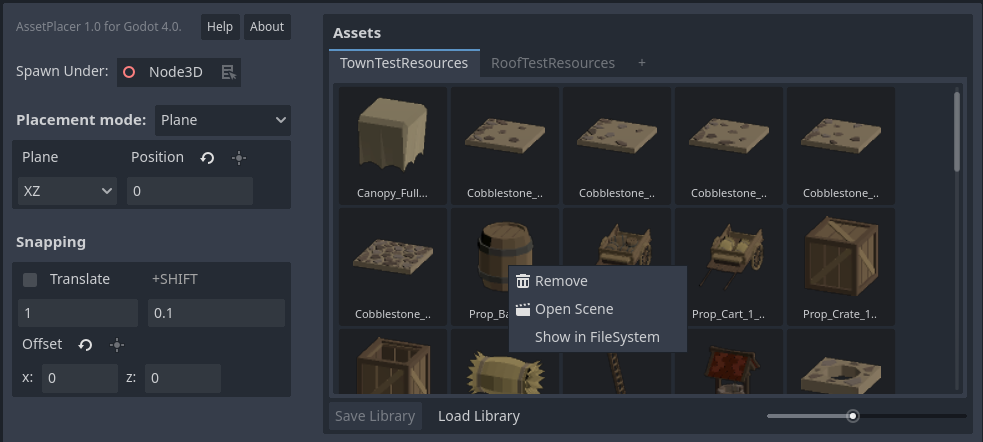
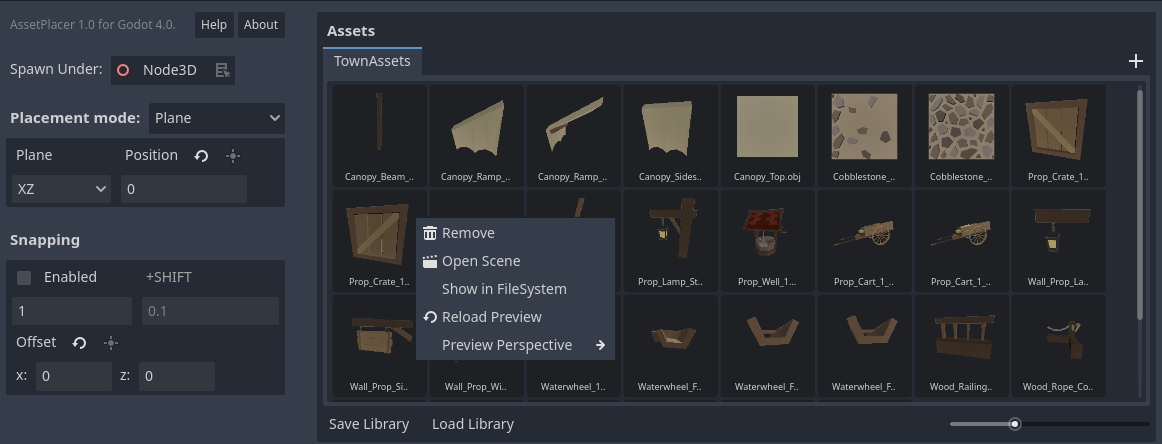
updated information for release

diff --git a/faq.rst b/faq.rst
@@ -1,6 +1,9 @@
 Frequently Asked Questions (FAQ)
 ================================
 
+.. |nbsp| unicode:: 0xA0 
+   :trim:
+
 Why is this not free?
 ------------------------
 
@@ -14,13 +17,14 @@ Considering the time you can save by using it, especially when using modular ass
 The plan is, to keep developing the plugin, by adding new features and maintaining compatibility with major engine versions. 
 As you receive the source code of the plugin directly, you are also free to make any changes as you see fit, if you ever need to change something. 
 Your freedom of use is as unlimited as I can make it, and as much as I would like to give the plugin away for free entirely, I am grateful for everybody who appreciates my work by buying it fairly.
-
+I might release other plugins as Open-Source in the future. Buying this plugin would also support my work in this endeavor.
+In case that you really do not want to pay for a tool, you can check out this `Open Source Alternative <https://github.com/Frontrider/Godot-Scene-Browser>`_ for Godot |nbsp| 3.
 
 I can only find the C# version. Where is GDScript?
 -----------------------------------------------------
 
 At the moment, this plugin is written in C# only. The choice to develop it in C# was made, because of the large amounts of code and the frequent use of abstraction and high-level language features. 
-This is much easer to handle with a powerful language with a powerful external IDE. As you might be aware, C# code can only be run in the Mono version of the Godot engine, which requires .Net or Mono to be installed, which might be annoying for some of you.
+This is much easer to handle with a powerful language with a powerful external IDE. As you might be aware, C# code can only be run in the Mono version of the Godot engine, which requires `.NET <https://dotnet.microsoft.com/en-us/download/dotnet/6.0>`_ to be installed, which might be annoying for some of you.
 I am sorry for this inconvenience. Maybe I will translate the plugin to GDScript eventually, but for now it is the way it is.
 
 
@@ -30,12 +34,17 @@ Is there a way to use this plugin for 2D levels?
 Currently, the plugin only features tools for 3D levels, but I thought about adding tools for 2D as well. Separating the AssetPlacer into an AssetPlacer3D and a AssetPlacer2D (i.e. having two bottom panels) would be an option, that might be implemented in the future.
 
 
-My assets show no preview thumbails. What is wrong?
-------------------------------------------------------
+.. 
+    My assets show no preview thumbails. What is wrong?
+    ------------------------------------------------------
 
-This can happen sometimes, especially when you open a project for the first time on a different computer. If you want the preview for a .tscn file, then open the file and save it, this way the thumbnail is generated.
-If you want to see the thumbnails of some 3D models, you have to reimport them (change them to be imported as a mesh and then back to import as a scene). 
-Unfortunately, this requires restarting the editor at the moment, but if a more efficient alternative for this problem is found, I will try to implement it.
+    This can happen sometimes, especially when you open a project for the first time on a different computer. If you want the preview for a .tscn file, then open the file and save it, this way the thumbnail is generated.
+    If you want to see the thumbnails of some 3D models, you have to reimport them (change them to be imported as a mesh and then back to import as a scene). 
+    Unfortunately, this requires restarting the editor at the moment, but if a more efficient alternative for this problem is found, I will try to implement it.
+
+Godot 3.x?
+-------------
+No, sorry.
 
 
 I added the plugin, but I cannot enable it!
@@ -53,7 +62,7 @@ You bought the plugin, then you own it. You can modify the source code however y
 If it somehow is of use to you, you may also use parts of the code inside any game you are making. 
 
 
-How long / for how many projects may I use the plugin? Will I receive updates?
+For how long will I be able to use the plugin? Will I receive updates?
 -------------------------------------------------------------------------------------
 
 There is no restriction to the usage, use it in any amount of projects for as long as you want! As long as the plugin is still in development, you will also receive accesss to any updates bringing new features, or compatibility with newer engine versions.

diff --git a/license.rst b/license.rst
@@ -1,0 +1,46 @@
+End-User License Agreement (EULA)
+==================================================
+
+This End-User License Agreement ("EULA") is a legal agreement between you and CookieBadger.
+
+This EULA agreement governs your acquisition and use of our AssetPlacer plugin software ("Software") directly from CookieBadger or indirectly through a reseller or distributor (a "Reseller") authorized by CookieBadger.
+
+Please read this EULA agreement carefully before completing the installation process and using the AssetPlacer software. It provides a license to use the AssetPlacer software and contains warranty information and liability disclaimers.
+
+If you register for a free trial of the AssetPlacer software, this EULA agreement will also govern that trial. By installing and/or using the AssetPlacer software, you are confirming your acceptance of the Software and agreeing to become bound by the terms of this EULA agreement.
+
+If you are entering into this EULA agreement on behalf of a company or other legal entity, you represent that you have the authority to bind such entity and its affiliates to these terms and conditions. If you do not have such authority or if you do not agree with the terms and conditions of this EULA agreement, do not install or use the Software, and you must not accept this EULA agreement.
+
+This EULA agreement shall apply only to the Software supplied by CookieBadger herewith regardless of whether other software is referred to or described herein. The terms also apply to any updates, supplements, Internet-based services, and support services for the Software by CookieBadger, unless other terms accompany those items on delivery. If so, those terms apply.
+
+License Grant
+-------------------
+CookieBadger hereby grants you a personal, non-transferable, non-exclusive licence to use the AssetPlacer software on your devices in accordance with the terms of this EULA agreement.
+
+You are permitted to load the AssetPlacer plugin (for example a PC, laptop, mobile or tablet) under your control. You are responsible for ensuring your device meets the minimum requirements of the AssetPlacer software.
+You are permitted to make modifications to the AssetPlacer plugin, as you see fit. However, the modified version will also be subject to this license agreement. 
+You are free to use the AssetPlacer plugin for commercial and non-commercial productions on your personal devices.
+
+You are not permitted to:
+
+- Reproduce, copy, distribute, resell or otherwise use the Software for any commercial purpose
+- Reproduce, copy, distribute or resell the Software for a commercial or non-commercial purpose, such that any third party, that has not been granted a license to use the Software, can access it
+- Allow any third party to use the Software on behalf of or for the benefit of any third party
+- Use the Software in any way which breaches any applicable local, national or international law
+- Use the Software for any purpose that CookieBadger considers is a breach of this EULA agreement
+
+Intellectual Property and Ownership
+------------------------------------
+CookieBadger shall at all times retain ownership of the Software as originally downloaded by you and all subsequent downloads of the Software by you. The Software (and the copyright, and other intellectual property rights of whatever nature in the Software, including any modifications made thereto) are and shall remain the property of CookieBadger.
+
+CookieBadger reserves the right to grant licences to use the Software to third parties.
+
+Termination
+----------------
+This EULA agreement is effective from the date you first use the Software and shall continue until terminated. You may terminate it at any time upon written notice to CookieBadger.
+
+It will also terminate immediately if you fail to comply with any term of this EULA agreement. Upon such termination, the licenses granted by this EULA agreement will immediately terminate and you agree to stop all access and use of the Software. The provisions that by their nature continue and survive will survive any termination of this EULA agreement.
+
+Governing Law
+---------------
+This EULA agreement, and any dispute arising out of or in connection with this EULA agreement, shall be governed by and construed in accordance with the laws of Austria.

diff --git a/usage.rst b/usage.rst
@@ -22,14 +22,15 @@ You can add any 3D scene or any 3D model, that is imported as a 3D scene to the 
 The asset then gets added to the palette and a preview should be shown. 
 In case of any error, check if there is anything in the Output panel of the Godot engine. 
 You can add as many assets as you want to the palette. Optionally, you can also click "Save Library", to store your selection of assets and be able to load it up after you restart the editor.
-Right click on an asset in the asset panel to open the context menu, e.g. to remove it from the library. Remember to save the library again after you make any changes.
+Right click on an asset in the asset panel to open the context menu, e.g. to remove it from the library. Remember to save the library again after you make any changes. The save location can be changed in the :doc:`Project Settings <settings/>`.
 
 To the left of the asset palette, you can then configure how you want to place assets. For example, you can select to place them under the root node and on the XZ plane at a height of 0, which is the default setting.
 To place an asset, click on it in the asset palette and move the mouse over the 3D viewport. A preview of the asset should follow your mouse cursor in the 3D scene. To place it, simply click once. To deslect the asset, press :kbd:`Esc`.
 
 .. image:: images/PlacingAsset.gif
 
-As placing assets does not flag the scene as changed, **make sure to always save your scene** after you placed assets, even though the editor does not remind you to!
+.. warning::
+  As placing assets does not flag the scene as changed, **make sure to always save your scene** after you placed assets, even though the editor does not remind you to!
 
 You can toggle snapping by holding down the :kbd:`Ctrl` key, while placing the asset. If you want to immediately select the asset when placing the asset, hold the :kbd:`Alt` key while clicking. This helps to quickly perform some unique transformations to the instance. 
 If you want to transform the preview and all subsequently placed instances of the asset, by rotating or scaling, press :kbd:`E` or :kbd:`R` respectively. If you are done, press the :kbd:`Space` key. If you have no asset selected, you can press :kbd:`Space` to select the most recent asset.
@@ -39,7 +40,7 @@ Left click, once you are satisfied with the position. Of course, this feature on
 
 .. image:: images/PlaneDisplacement.gif
 
-You can also place assets on physics surfaces. Make sure, that collisions are enabled on the surface objects you want to place assets on (e.g. the terrain). 
+You can also place assets on physics surfaces. Make sure, that collisions are enabled on the surface objects you want to place assets on (e.g. the terrain). If you want, you can configure the collision mask that assets are placed on in the :doc:`Project Settings <settings/>`.
 You can also press a checkbox in the placement configuration, to align your asset with the normal vector of the surface you are placing on.
 
 .. image:: images/SurfacePlacement.gif
@@ -73,7 +74,7 @@ Here is a list of all the shortcuts in the plugin. The most frequent actions are
      - :kbd:`Shift+E`
    * - **Confirm asset transformation** (in transform mode)
      - :kbd:`Space`
-   * - **Select last asset** (when none selected)
+   * - **Select previous asset** (when none selected)
      - :kbd:`Space`
    * - **Place and select**
      - :kbd:`Alt+Click`
@@ -99,5 +100,9 @@ Here is a list of all the shortcuts in the plugin. The most frequent actions are
      - :kbd:`2`
    * - Flip on Z axis
      - :kbd:`3`
+   * - Double snap step
+     - :kbd:`Ctrl+Up`
+   * - Halve snap step
+     - :kbd:`Ctrl+Down`
 
-These are the default keybindings recommended by us, but you can change any of them in the Project Settings under ``AssetPlacer -> Shortcuts``.
+These are the default keybindings recommended by us, but you can change any of them in the :doc:`Project Settings <settings/>` under ``AssetPlacer -> Shortcuts``.

diff --git a/adding_assets.rst b/adding_assets.rst
@@ -7,9 +7,10 @@ The number of assets per library is unlimited. Yet, it is recommended to separat
 
 .. image:: images/DroppingAsset.png
 
-If no library is open yet, a new one is created when you add the first asset. You can also create a new library by clicking the ``+`` button on the library tab bar. 
-You can save the library by clicking on the ``Save Library`` button. Libraries are stored in the ``user:://`` directory. 
-This has the advantage of not cluttering your project folder, but in return sharing your project folder does not include your libraries. Take this into account when making backups or using version control. 
+If no library is open yet, a new one is created when you add the first asset. You can also create a new library by clicking the ``+`` button on the right side of the library tab bar. 
+You can save the library by clicking on the ``Save Library`` button. Libraries are per default stored in the ``user:://`` directory. 
+This has the advantage of not cluttering your project folder, but in return sharing your project folder does not include your libraries, so take this into account when making backups or using version control. 
+Alternatively, you can configure where libraries are saved in the :doc:`Project Settings <settings/>`.
 A saved library can be opened by clicking ``Load Library``. This opens the library in a new tab. If you want to close a library tab, simply click on it with the middle mouse button.
 You can also right click a library tab to open the context menu, to either locate it in your file explorer, or to save a copy of it.
 
@@ -21,3 +22,19 @@ If you want to remove an asset from a library, locate it in the FileSystem, or o
 
 Libraries keep only references to the assets you added. If you move assets around or delete them, their references might become invalid, and you need to add the asset again.
 In case of unexpected behavior refer to the "Output" tab for information.
+
+Previews 
+----------
+
+The plugin automatically generates previews for your assets. It attempts to frame your asset as good as possible. However, you might want to change from which side your assets are being previewed. 
+You can either choose to view them from the top, the front, the left, the right, the bottom, or the back. The default perspective can be configured in the :doc:`Project Settings <settings/>`. 
+However, as you might want to choose differently for different assets, you can also choose the perspective per library in the right-click context menu of the tab bar, or by right clicking on an asset.
+
+.. image:: images/PreviewPerspectiveAsset.png
+
+The priority of the settings is such, that the setting on the asset overrides the library, and the library overrides what is configured in the project settings. 
+
+.. image:: images/PreviewPerspectiveLibrary.png
+
+There is also an option to reset the configuration on all assets of a library.
+In case your asset changed in some way, you can click "Reload Preview" in the right-click context menu of on an asset, or "Reload all Previews" in the context menu of a library. 

diff --git a/interface.rst b/interface.rst
@@ -8,10 +8,10 @@ In the following image, parts of the UI are highlighted and enumerated:
 
 .. image:: images/InterfaceLayoutFine.png
 
-1. The asset pallete. Drag 3D scenes, or 3D models that are imported as scenes, from the FileSystem to this panel, to add them to the current library. Select an asset by clicking on it to enable placement in the scene.
-2. The library tab bar. Switch between different asset libraries or create a new library here.
-3. Save the current library or load an existing library into a new tab.
-4. Preview thumbnail size slider.
-5. Spawn hierarchy selector. Defines under which node the assets are being placed. Defaults to the scene root. Drag and drop a node from the scene tree into the selector to mark it as the parent node for placing assets. Alternatively, click the button next to it, to mark the currently selected node.
-6. Placement settings. Switch between plane placement mode and surface placement mode. Configure the plane, or alignment with surface normal. Contains a button to position the plane, such that the currently selected node is on the plane.
-7. Snapping settings. Contains a checkbox for enabling and disabling snapping. Configure the size of the snapping grid, or the fine grid when holding down the Shift key. Offset the grid from the origin. Contains a button to offset the grid, such that the currently selected node is on the grid.
+#. The asset pallete. Drag 3D scenes, or 3D models that are imported as scenes, from the FileSystem to this panel, to add them to the current library. Select an asset by clicking on it to enable placement in the scene.
+#. The library tab bar. Switch between different asset libraries or create a new library here.
+#. Save the current library or load an existing library into a new tab.
+#. Preview thumbnail size slider.
+#. Spawn hierarchy selector. Defines under which node the assets are being placed. Defaults to the scene root. Drag and drop a node from the scene tree into the selector to mark it as the parent node for placing assets. Alternatively, click the button next to it, to mark the currently selected node.
+#. Placement settings. Switch between plane placement mode and surface placement mode. Configure the plane, or alignment with surface normal. Contains a button to position the plane, such that the currently selected node is on the plane.
+#. Snapping settings. Contains a checkbox for enabling and disabling snapping. Configure the size of the snapping grid, or the fine grid when holding down the Shift key. Offset the grid from the origin. Contains a button to offset the grid, such that the currently selected node is on the grid.

diff --git a/placement_modes.rst b/placement_modes.rst
@@ -6,7 +6,7 @@ At the moment, the AssetPlacer offers two different placement modes: Plane and S
 Plane Placement Mode
 -----------------------
 
-This is the default mode. The plane placement mode places assets - as the name suggests - on a plane, that can be configured by the user. This is mode is useful when the are you are working on is flat, blocky or when the differences in height are discrete.
+This is the default mode. The plane placement mode places assets - as the name suggests - on a plane, that can be configured by the user. This is mode is useful when the level you are working on is flat, blocky or when the differences in height are discrete.
 When selecting an asset, and hovering over the viewport, the asset is positioned on the intersection of the plane and the line from the mouse position into the 3D world. 
 
 .. image:: images/PlanePlacementModeInterface.png
@@ -36,13 +36,13 @@ The second mode offered by the plugin, allows to place assets on physics surface
 
 .. image:: images/SurfacePlacementModeInterface.png
 
-When selecting and asset, and hovering over the viewport, with this placement mode enabled, the asset is positioned on the intersection of the line from the mouse position into the 3D world and the first physics surface it intersects (raycast).
+When selecting an asset, and hovering over the viewport, with this placement mode enabled, the asset is positioned on the intersection of the line from the mouse position into the 3D world and the first physics surface it intersects (raycast).
 This only works on collision surfaces, so make sure that objects you want to place on, have a collision shape or collisions enabled (e.g. for CSG shapes).
 You can also set a special collision mask for placement in the project settings under ``AssetPlacer -> Settings``.
 
 .. image:: images/SurfacePlacement.gif
 
 The surface placement mode also allows you to align assets with the normal of the surface they are being placed on. To enable this, make sure to check the box "Align to Surface Normal" and select the right direction of your object you want to align.
-By default, this is the positive Y axis, which would work for e.g. placing trees, but when you want to stick a sign to a wall, you might, for example, use the X axis instead.
+By default, this is the positive Y-axis, which would work for e.g. placing trees, but when you want to stick a sign to a wall, you might, for example, use the X-axis instead.
 
 .. image:: images/SurfacePlacementAligned.gif

diff --git a/snapping.rst b/snapping.rst
@@ -1,10 +1,10 @@
 Snapping
 =========
 
-To make the use of modular assets and placing objects at regular distances easy, the AssetPlacer offers Snapping capabilities. Compared to the Godot editor's built-in incremental snapping applied to transformations, the AssetPlacer offers GridSnapping, i.e. assets are snapped to absolute positions on a global grid. 
+To make the use of modular assets and placing objects at regular distances easy, the AssetPlacer offers Snapping capabilities. Compared to the Godot editor's built-in incremental snapping applied to transformations, the AssetPlacer offers grid snapping, i.e. assets are snapped to absolute positions on a global grid. 
 Note that the AssetPlacer's snapping is separate from Godot's internal snapping, thus you need to make sure to configure both of them to fit your needs. 
 There is a checkbox in the AssetPlacer's user interface, that enables snapping. For convenience and consistency, you can also toggle snapping when placing assets by holding down the :kbd:`Ctrl` key.
-When snapping is active, a grid is displayed on the plane that assets are currently being placed on.
+When snapping is active, a grid is displayed on the plane that assets are currently being placed on. *If you are using the OpenGL 3 renderer, this grid is unfortunately not visible.*
 
 .. image:: images/Snapping.gif
 
@@ -20,5 +20,7 @@ To be able to quickly use this feauture without typing values, you can select an
 
 .. image:: images/GridOffset.gif
 
-The plugin will avoid placing the same asset twice at the same position if snapping is enabled. However, this feature only works for the last couple of hundred assets placed, so be careful when working on large scenes! 
+.. note::
+    If snapping is enabled, the plugin will avoid overlapping assets, i.e. placing the same asset twice at the same position. It checks all the children of the node you are currently placing under.
+    However, to not compromise performance, this feature only checks the last one thousand assets placed, so be careful when working on large scenes. Group your objects under different nodes! 
 

diff --git a/settings.rst b/settings.rst
@@ -1,0 +1,17 @@
+Settings and Configuration
+=============================
+
+As described in various other locations, you can change certain aspects of the plugin in the project settings. These settings are saved in your ``project.godot`` file.
+You can access them by going to ``Project -> ProjectSettings...``, and then scrolling down to the ``Asset Placer`` section. 
+Make sure, that ``Advanced Settings`` is enabled, otherwise the section will not show up.
+
+.. image:: images/Settings.png
+
+Here is everything you can configure. The order of the settings might occasionally change.
+
+#. Shortcuts: All shortcuts that the plugin uses can be configured here, by modifying the respective InputEventKeys. You can also add additional alternatives to achieve the same thing.
+#. Use Shift Instead of Alt: in case you have troubles due to some different mapping of your Alt key, you can check this to use Shift+Click to place and select assets.
+#. Show Tooltips: I understand that the tooltips might be annoying and clutter your scren, so here you can turn them off entirely!
+#. Preview Perspective: The default perspective from which previews are rendered, if nothing else is configured for the library or the asset.
+#. Library Save File Location: If you want your libraries to be saved in your project folder, you can configure that here!
+#. Shortcut Shift Rotation step: When you press a *secondary step* rotation shortcut, it will not rotate the asset by 90 degrees, but by this amount. Change it to your needs.

diff --git a/index.rst b/index.rst
@@ -2,7 +2,6 @@
    sphinx-quickstart on Thu Mar 30 07:37:23 2023.
    You can adapt this file completely to your liking, but it should at least
    contain the root `toctree` directive.
-
 Welcome to the AssetPlacer documentation!
 =====================================================
 
@@ -32,6 +31,7 @@ Get it `here`_!
    placement_modes
    snapping
    painting_orienting
+   settings
    
 .. toctree::
    :hidden:
@@ -39,13 +39,20 @@ Get it `here`_!
    :caption: About
    
    faq
+   license
 
 
-Not only can you save massive amounts using the AssetPlacer, it also helps you achieve the same things with fewer actions, thus you can get more done with less strain. 
+Not only can you save massive amounts of time using the AssetPlacer, it also helps you achieve the same things with fewer actions, thus you can get more done with less strain. 
 
 Click on any topics on the sidebar to find more information. If you want to quickly get started, read through the :doc:`Installation <installation/>` and :doc:`Usage <usage/>` pages. 
 
+
    .. If you want to see the asset placer in action, check out the following video: [Timelapse video]
    .. There are also tutorials on how to use it: [Tutorial]
+
+
+.. image:: images/ItchBanner.png
+
+|
 
 .. _here: https://cookiebadger.itch.io/assetplacer

diff --git a/painting_orienting.rst b/painting_orienting.rst
@@ -4,7 +4,8 @@ Painting and Orienting Assets
 Depending on whether snapping is enabled or not, clicking and dragging offers different capabilities.
 
 When snapping is enabled, you can paint assets, by clicking and dragging over all the grid positions you want to fill with assets. This will not place "duplicate" assets, when you cross the same position multiple times.
-The same also applies to individual placement with snapping enabled. Note however, that different assets, will be placed at the same position.
+It also won't place "duplicate" assets, if you already placed the same asset under the same node at that position earlier, but this is only checked up to a certain limit of nodes.
+The same also applies to individual placement with snapping enabled. Note however, that different assets, or the same asset with a different rotation or scale, will be placed at the same position.
 
 .. image:: images/PaintingAssets.gif
 

diff --git a/placing_assets.rst b/placing_assets.rst
@@ -24,7 +24,7 @@ If you want to reset the transformation of your asset entirely, press :kbd:`Shif
 .. image:: images/TransformingAsset.gif
 
 You can also apply some quick transformations by using shortcuts. With :kbd:`A`, :kbd:`S`, and :kbd:`D` you can rotate your asset by 90 degrees on the X, Y, and Z axes. 
-Using the :kbd:`Shift` modifier, the rotation step is halfed to 45 degrees. You can also change the amount of rotation when holding :kbd:`Shift` in the ProjectSettings under ``AssetPlacer -> Settings``. 
+Using the :kbd:`Shift` modifier, the rotation step is halved to 45 degrees. You can change the amount of rotation when holding :kbd:`Shift` in the :doc:`Project Settings <settings/>` under ``AssetPlacer -> Settings``. 
 You can also flip your asset by inverting scale components along the X, Y and Z axes by using the keys :kbd:`1`, :kbd:`2`, and :kbd:`3`.
 
 ..

diff --git a/installation.rst b/installation.rst
@@ -5,7 +5,7 @@ The AssetPlacer is a paid plugin, therefore it is not available at Godot's built
 Not all versions of Godot are supported by the plugin, so make sure you check that the plugin is compatible with the version you intend to use before you make your purchase. 
 To install the plugin, follow the instructions below.
 
-The AssetPlacer is developed in C#. Hence, to use it, you need to use a Mono version of the Godot engine, and have Mono or .Net installed.
+The AssetPlacer is developed in C#. Hence, to use it, you need to use a Mono version of the Godot engine, and have `.NET <https://dotnet.microsoft.com/en-us/download/dotnet/6.0>`_ installed.
 
 1. Once purchased, retrieve and extract the downloadables. Make sure to choose the package that corresponds to your Godot version. 
 
